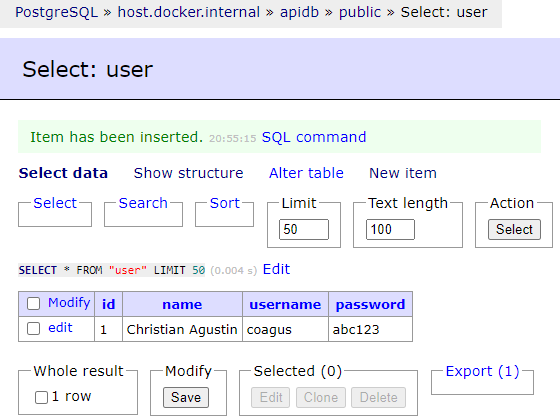
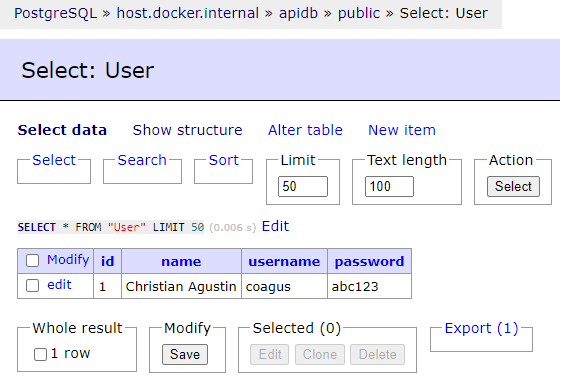
:sparkles: 11 GraphQL Mutation
Add mutation with create user.

diff --git a/src/graphql/type_defs/message.ts b/src/graphql/type_defs/message.ts
@@ -1,9 +1,30 @@
-import { GraphQLObjectType, GraphQLString } from "graphql";
+import { Logger } from "@utils/logger";
+import { GraphQLBoolean, GraphQLObjectType, GraphQLString } from "graphql";
 
 export const MessageType = new GraphQLObjectType({
   name: "Message",
   description: "Message Result",
   fields: () => ({
+    successful: { type: GraphQLBoolean },
     message: { type: GraphQLString },
   }),
 });
+
+export const msg = {
+  replyError: (error: any) => {
+    if (error instanceof Error) {
+      const err = <Error>error;
+      Logger.error(err.message);
+      return { successful: false, message: err.message };
+    }
+    return { succesful: false, message: JSON.stringify(error) };
+  },
+  replyWarning: (message: string) => {
+    Logger.warn(message);
+    return { successful: false, message };
+  },
+  replySuccess: (message: string) => {
+    Logger.info(message);
+    return { successful: true, message };
+  },
+};

diff --git a/src/graphql/mutations/user.ts b/src/graphql/mutations/user.ts
@@ -1,0 +1,33 @@
+import { User } from "@entities/user";
+import { MessageType, msg } from "@type_defs/message";
+import { Logger } from "@utils/logger";
+import { GraphQLString } from "graphql";
+
+export const CREATE_USER = {
+  type: MessageType,
+  description: "Create user",
+  args: {
+    name: { type: GraphQLString },
+    username: { type: GraphQLString },
+    password: { type: GraphQLString },
+  },
+  async resolve(parent: any, args: any) {
+    Logger.debug("graphql.mutation.user.resolve");
+    const { username } = args;
+
+    try {
+      const user = await User.findOneBy({ username });
+
+      if (user)
+        return msg.replyWarning(
+          `Username ${username} exists, please try other.`
+        );
+
+      await User.insert(args);
+    } catch (error) {
+      return msg.replyError(error);
+    }
+
+    return msg.replySuccess(`User ${username} created!`);
+  },
+};

diff --git a/src/graphql/index.ts b/src/graphql/index.ts
@@ -1,16 +1,24 @@
 import { GraphQLObjectType, GraphQLSchema } from "graphql";
-import { GET_MESSAGE } from "@queries/message";
 import { GET_ALL_USERS } from "@queries/user";
+import { CREATE_USER } from "@mutations/user";
 
 const Query = new GraphQLObjectType({
   name: "Query",
   description: "Query List",
   fields: {
-    getMessage: GET_MESSAGE,
-    getAllUsers: GET_ALL_USERS
+    getAllUsers: GET_ALL_USERS,
+  },
+});
+
+const Mutation = new GraphQLObjectType({
+  name: "Mutation",
+  description: "Mutation list",
+  fields: {
+    createUser: CREATE_USER,
   },
 });
 
 export const schema = new GraphQLSchema({
   query: Query,
+  mutation: Mutation,
 });

diff --git a/README.md b/README.md
@@ -1,4 +1,4 @@
-# graphql-api-nodejs / 10 TypeOrm
+# graphql-api-nodejs / 11 GraphQL Mutation
 GraphQL API with NodeJS.
 ## Get starter
 Install nodejs: https://nodejs.dev/en/download/
@@ -48,6 +48,9 @@ Add experimentalDecorators, emitDecoratorMetadata, sourceMap, outDir, rootDir, b
       ],
       "@queries/*": [
         "src/graphql/queries/*"
+      ],
+      "@mutations/*": [
+        "src/graphql/mutations/*"
       ],
       "@type_defs/*": [
         "src/graphql/type_defs/*"
@@ -266,6 +269,8 @@ export const UserType = new GraphQLObjectType({
   }),
 });
 ```
+**Query**
+
 Create src/graphql/queries/user.ts
 ```javascript
 import { User } from "@entities/user";
@@ -282,34 +287,77 @@ export const GET_ALL_USERS = {
     }
 }
 ```
+
+**Mutation**
+
+Create src/graphql/mutations/user.ts
+```javascript
+import { User } from "@entities/user";
+import { MessageType, msg } from "@type_defs/message";
+import { Logger } from "@utils/logger";
+import { GraphQLString } from "graphql";
+
+export const CREATE_USER = {
+  type: MessageType,
+  description: "Create user",
+  args: {
+    name: { type: GraphQLString },
+    username: { type: GraphQLString },
+    password: { type: GraphQLString },
+  },
+  async resolve(parent: any, args: any) {
+    Logger.debug("graphql.mutation.user.resolve");
+    const { username } = args;
+
+    try {
+      const user = await User.findOneBy({ username });
+
+      if (user)
+        return msg.replyWarning(
+          `Username ${username} exists, please try other.`
+        );
+
+      await User.insert(args);
+    } catch (error) {
+      return msg.replyError(error);
+    }
+
+    return msg.replySuccess(`User ${username} created!`);
+  },
+};
+```
+
 ### Message
 Create src/graphql/type_defs/message.ts
 ```javascript
-import { GraphQLObjectType, GraphQLString } from "graphql";
+import { Logger } from "@utils/logger";
+import { GraphQLBoolean, GraphQLObjectType, GraphQLString } from "graphql";
 
 export const MessageType = new GraphQLObjectType({
   name: "Message",
   description: "Message Result",
   fields: () => ({
+    successful: { type: GraphQLBoolean },
     message: { type: GraphQLString },
   }),
 });
-```
-Create src/graphql/queries/message.ts
-```javascript
-import { GraphQLString } from "graphql";
-import { MessageType } from "@type_defs/message";
 
-export const GET_MESSAGE = {
-  type: MessageType,
-  description: "Get Message",
-  args: {
-    name: { type: GraphQLString },
-  },
-  resolve(parent: any, args: any) {
-    return {
-        message: `Hello ${args.name}!`
+export const msg = {
+  replyError: (error: any) => {
+    if (error instanceof Error) {
+      const err = <Error>error;
+      Logger.error(err.message);
+      return { successful: false, message: err.message };
     }
+    return { succesful: false, message: JSON.stringify(error) };
+  },
+  replyWarning: (message: string) => {
+    Logger.warn(message);
+    return { successful: false, message };
+  },
+  replySuccess: (message: string) => {
+    Logger.info(message);
+    return { successful: true, message };
   },
 };
 ```
@@ -317,20 +365,28 @@ export const GET_MESSAGE = {
 Create src/graphql/index.ts
 ```javascript
 import { GraphQLObjectType, GraphQLSchema } from "graphql";
-import { GET_MESSAGE } from "@queries/message";
 import { GET_ALL_USERS } from "@queries/user";
+import { CREATE_USER } from "@mutations/user";
 
 const Query = new GraphQLObjectType({
   name: "Query",
   description: "Query List",
   fields: {
-    getMessage: GET_MESSAGE,
-    getAllUsers: GET_ALL_USERS
+    getAllUsers: GET_ALL_USERS,
+  },
+});
+
+const Mutation = new GraphQLObjectType({
+  name: "Mutation",
+  description: "Mutation list",
+  fields: {
+    createUser: CREATE_USER,
   },
 });
 
 export const schema = new GraphQLSchema({
   query: Query,
+  mutation: Mutation,
 });
 ```
 Create src/index.ts
@@ -393,26 +449,50 @@ $ nodemon -r tsconfig-paths/register ./src/index.ts
 [nodemon] watching path(s): *.*
 [nodemon] watching extensions: ts,json
 [nodemon] starting `ts-node -r tsconfig-paths/register ./src/index.ts`
-[2022-08-30T19:53:31.490Z] debug: database.initDbPg
+[2022-08-30T23:10:11.113Z] debug: database.initDbPg
 query: SELECT * FROM current_schema()
 query: SELECT version();
 query: START TRANSACTION
 query: SELECT * FROM current_schema()
 query: SELECT * FROM current_database()
-query: SELECT "table_schema", "table_name" FROM "information_schema"."tables" WHERE ("table_schema" = 'public' AND "table_name" = 'user')
+query: SELECT "table_schema", "table_name" FROM "information_schema"."tables" WHERE ("table_schema" = 'public' AND "table_name" = 'User')
 query: SELECT * FROM "information_schema"."tables" WHERE "table_schema" = 'public' AND "table_name" = 'typeorm_metadata'
-query: CREATE TABLE "user" ("id" SERIAL NOT NULL, "name" character varying NOT NULL, "username" character varying NOT NULL, "password" character varying NOT NULL, CONSTRAINT "UQ_78a916df40e02a9deb1c4b75edb" UNIQUE ("username"), CONSTRAINT "PK_cace4a159ff9f2512dd42373760" PRIMARY KEY ("id"))
+query: CREATE TABLE "User" ("id" SERIAL NOT NULL, "name" character varying NOT NULL, "username" character varying NOT NULL, "password" character varying NOT NULL, CONSTRAINT "UQ_29a05908a0fa0728526d2833657" UNIQUE ("username"), CONSTRAINT "PK_9862f679340fb2388436a5ab3e4" PRIMARY KEY ("id"))
 query: COMMIT
-[2022-08-30T19:53:31.723Z] info: Database postgres initialized successfuly!
-[2022-08-30T19:53:31.728Z] info: Server runnig in port 3001
+[2022-08-30T23:10:11.374Z] info: Database postgres initialized successfuly!
+[2022-08-30T23:10:11.379Z] info: Server runnig in port 3001
 ```
 Check table User in this link:
 http://localhost:8080/?pgsql=host.docker.internal&username=postgres&db=apidb&ns=public&table=user
 ![user table](resources/img/user_table.png?raw=true)
 
-Create new row
-http://localhost:8080/?pgsql=host.docker.internal&username=postgres&db=apidb&ns=public&edit=user
+Create new user with GraphQL
+
+http://localhost:3001/api
+
+```javascript
+mutation {
+   createUser(
+    name: "Christian Agustin", 
+    username: "coagus", 
+    password: "abc123") {
+    successful
+    message
+  }
+}
+```
+Check result
+
 ![user table](resources/img/insert_user.png?raw=true)
+
+Check log
+```bash
+[2022-08-30T23:39:54.068Z] debug: graphql.mutation.user.resolve
+query: SELECT "User"."id" AS "User_id", "User"."name" AS "User_name", "User"."username" AS "User_username", "User"."password" AS "User_password" FROM "User" "User" WHERE ("User"."username" = $1) LIMIT 1 -- 
+PARAMETERS: ["coagus"]
+query: INSERT INTO "User"("name", "username", "password") VALUES ($1, $2, $3) RETURNING "id" -- PARAMETERS: ["Christian Agustin","coagus","abc123"]
+[2022-08-30T23:39:54.164Z] info: User coagus created!
+```
 
 Check new row
 http://localhost:8080/?pgsql=host.docker.internal&username=postgres&db=apidb&ns=public&select=user
@@ -451,12 +531,12 @@ Result:
 $ yarn build
 yarn run v<#.##.## your version>
 $ webpack
-asset index.js 4.96 KiB [emitted] [minimized] (name: main)
-cacheable modules 8.23 KiB
-  modules by path ./src/graphql/ 2.33 KiB 5 modules
-  modules by path ./src/database/ 3.34 KiB
+asset index.js 6.09 KiB [emitted] [minimized] (name: main)
+cacheable modules 10.5 KiB
+  modules by path ./src/graphql/ 4.6 KiB 5 modules
+  modules by path ./src/database/ 3.36 KiB
     ./src/database/index.ts 1.82 KiB [built] [code generated]
-    ./src/database/entities/user.ts 1.52 KiB [built] [code generated]
+    ./src/database/entities/user.ts 1.54 KiB [built] [code generated]
   ./src/index.ts 1.81 KiB [built] [code generated]
   ./src/utils/logger.ts 764 bytes [built] [code generated]
 external "dotenv" 42 bytes [built] [code generated]
@@ -466,8 +546,8 @@ external "express-graphql" 42 bytes [built] [code generated]
 external "winston" 42 bytes [built] [code generated]
 external "graphql" 42 bytes [built] [code generated]
 external "typeorm" 42 bytes [built] [code generated]
-webpack 5.74.0 compiled successfully in 3910 ms
-Done in 5.66s.
+webpack 5.74.0 compiled successfully in 6725 ms
+Done in 9.43s.
 ```
 Start project with Yarn
 ```bash
@@ -478,7 +558,7 @@ Result:
 $ yarn start
 yarn run v<#.##.## your version>
 $ node ./dist/index.js
-[2022-08-30T21:52:08.094Z] debug: database.initDbPg
+[2022-08-30T23:58:05.845Z] debug: database.initDbPg
 query: SELECT * FROM current_schema()
 query: SELECT version();
 query: START TRANSACTION
@@ -488,6 +568,6 @@ query: SELECT "table_schema", "table_name" FROM "information_schema"."tables" WH
 query: SELECT * FROM "information_schema"."tables" WHERE "table_schema" = 'public' AND "table_name" = 'typeorm_metadata'
 query: CREATE TABLE "User" ("id" SERIAL NOT NULL, "name" character varying NOT NULL, "username" character varying NOT NULL, "password" character varying NOT NULL, CONSTRAINT "UQ_29a05908a0fa0728526d2833657" UNIQUE ("username"), CONSTRAINT "PK_9862f679340fb2388436a5ab3e4" PRIMARY KEY ("id"))
 query: COMMIT
-[2022-08-30T21:52:08.322Z] info: Database postgres initialized successfuly!
-[2022-08-30T21:52:08.329Z] info: Server runnig in port 3001
+[2022-08-30T23:58:06.113Z] info: Database postgres initialized successfuly!
+[2022-08-30T23:58:06.124Z] info: Server runnig in port 3001
 ```
